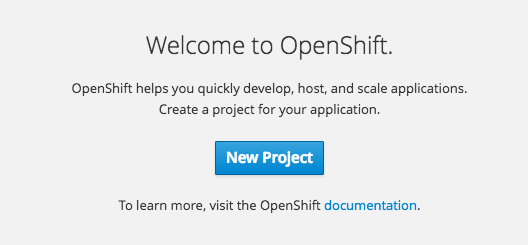
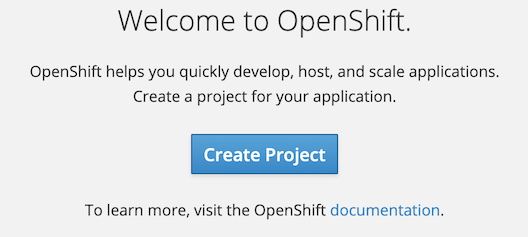
change new to create, add new photo, edit user language for step 3

diff --git a/introduction/cluster-access/01-logging-in-via-the-web-console.md b/introduction/cluster-access/01-logging-in-via-the-web-console.md
@@ -23,7 +23,7 @@ As this is the first time you have logged in as this user in this OpenShift clus
 
 ![Web Console Welcome](../../assets/introduction/cluster-access/01-web-console-welcome.png)
 
-Create a new project by selecting _New Project_. Call the project ``myproject``.
+Create a new project by selecting _Create Project_. Call the project ``myproject``.
 
 ![Create New Project](../../assets/introduction/cluster-access/01-create-new-project.png)
 

diff --git a/introduction/cluster-access/03-collaborating-with-other-users.md b/introduction/cluster-access/03-collaborating-with-other-users.md
@@ -10,7 +10,7 @@ This is the first time this user has logged in, so if you run:
 
 ``oc get projects``{{execute}}
 
-you should see that he has access to no projects.
+you should see that the user has access to no projects.
 
 To grant this user access to your project, go to the list of projects in the web console and select on the drop down menu to the right of the project name and select on _View Membership_.
 
